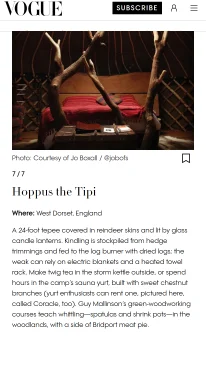
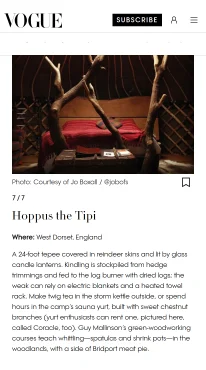
Set our own line exactly as a quote, and give Vogue room
The two cards carrying a line of ours were set apart from the rest --
italic, faded, no rule down the left -- which made the row look
uneven rather than deliberate. They now take the same treatment as a
quote: same rule, same size, same weight, same place. The only
difference left is the quote marks, which our own words do not get.

The Vogue masthead sat flush against the top of its tile and against
the join below it, where every other clipping has the publication's
own white around the mark. Its band now carries that white.

diff --git a/public/css/press.css b/public/css/press.css
@@ -208,14 +208,20 @@ section[data-kind][hidden] {
   opacity: .6;
 }
 
-.ch-press__quote {
+/* A quote from the piece, and a line of our own, set identically: same rule
+   down the left, same size, same place on the card. They sit in the same
+   slot and should not look like two different kinds of thing. The only
+   difference is the quote marks, which our own line does not get. */
+.ch-press__quote,
+.ch-press__note {
   margin: 0;
   padding-left: .75rem;
   border-left: 2px solid currentColor;
   opacity: .999; /* keeps the rule below from bleeding the border into the text */
 }
 
-.ch-press__quote p {
+.ch-press__quote p,
+.ch-press__note {
   margin: 0;
   font-size: 1rem;
   line-height: 1.5;
@@ -235,16 +241,6 @@ section[data-kind][hidden] {
   text-decoration-thickness: 2px;
 }
 
-/* Our own line on a card, under the publication's. Lighter and unquoted, so
-   it is plainly not part of what the paper said -- it is there to place a
-   piece whose age would otherwise mislead. */
-.ch-press__note {
-  margin: 0;
-  font-size: 1rem;
-  line-height: 1.5;
-  font-style: italic;
-  opacity: .65;
-}
 
 .ch-press__quote + .ch-press__note {
   margin-top: .75rem;

diff --git a/public/oxford-press.html b/public/oxford-press.html
@@ -30,7 +30,7 @@
   <meta content="A timber cabin lit from within, among ferns in golden-hour woodland" property="og:image:alt">
   <meta content="summary_large_image" name="twitter:card">
   <link href="css/page.css?v=20260922a" rel="stylesheet" type="text/css">
-  <link href="css/press.css?v=20260925c" rel="stylesheet" type="text/css">
+  <link href="css/press.css?v=20260925d" rel="stylesheet" type="text/css">
   <link href="css/oxford-footer.css?v=4efd9f7b" rel="stylesheet" type="text/css">
   <style>
     /* page.css styles .ch-prose links but not .ch-list ones, so these were

diff --git a/public/dorset-press.html b/public/dorset-press.html
@@ -29,7 +29,7 @@
   <meta content="A timber cabin lit from within, among ferns in golden-hour woodland" property="og:image:alt">
   <meta content="summary_large_image" name="twitter:card">
   <link href="css/page.css?v=20260922a" rel="stylesheet" type="text/css">
-  <link href="css/press.css?v=20260925c" rel="stylesheet" type="text/css">
+  <link href="css/press.css?v=20260925d" rel="stylesheet" type="text/css">
   <style>
     /* page.css styles .ch-prose links but not .ch-list ones, so these were
        rendering as default browser blue; and .ch-list is not in the accent

diff --git a/public/press.html b/public/press.html
@@ -29,7 +29,7 @@
   <meta content="A timber cabin lit from within, among ferns in golden-hour woodland" property="og:image:alt">
   <meta content="summary_large_image" name="twitter:card">
   <link href="css/page.css?v=20260922a" rel="stylesheet" type="text/css">
-  <link href="css/press.css?v=20260925c" rel="stylesheet" type="text/css">
+  <link href="css/press.css?v=20260925d" rel="stylesheet" type="text/css">
   <style>
     /* page.css styles .ch-prose links but not .ch-list ones, so these were
        rendering as default browser blue; and .ch-list is not in the accent
